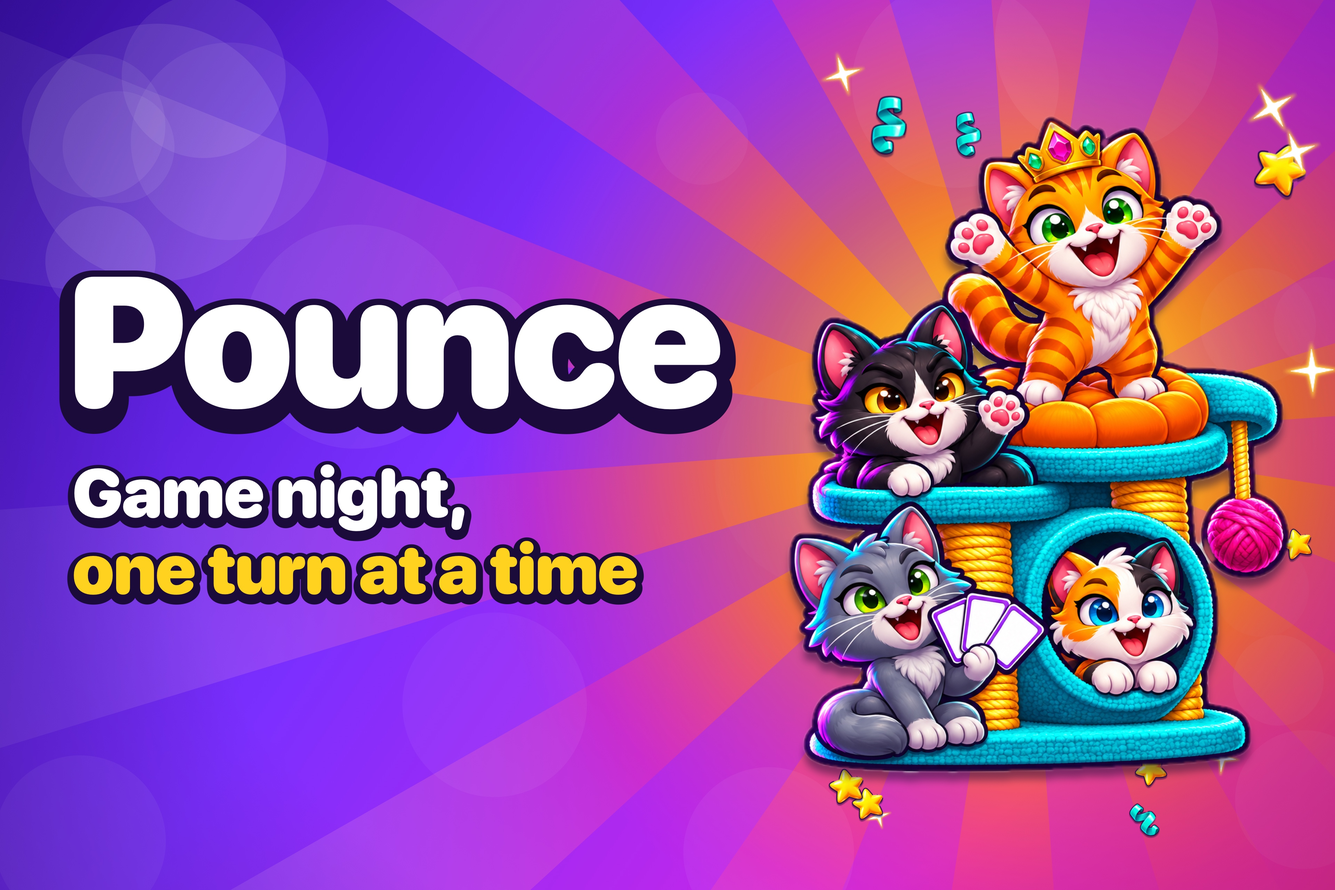
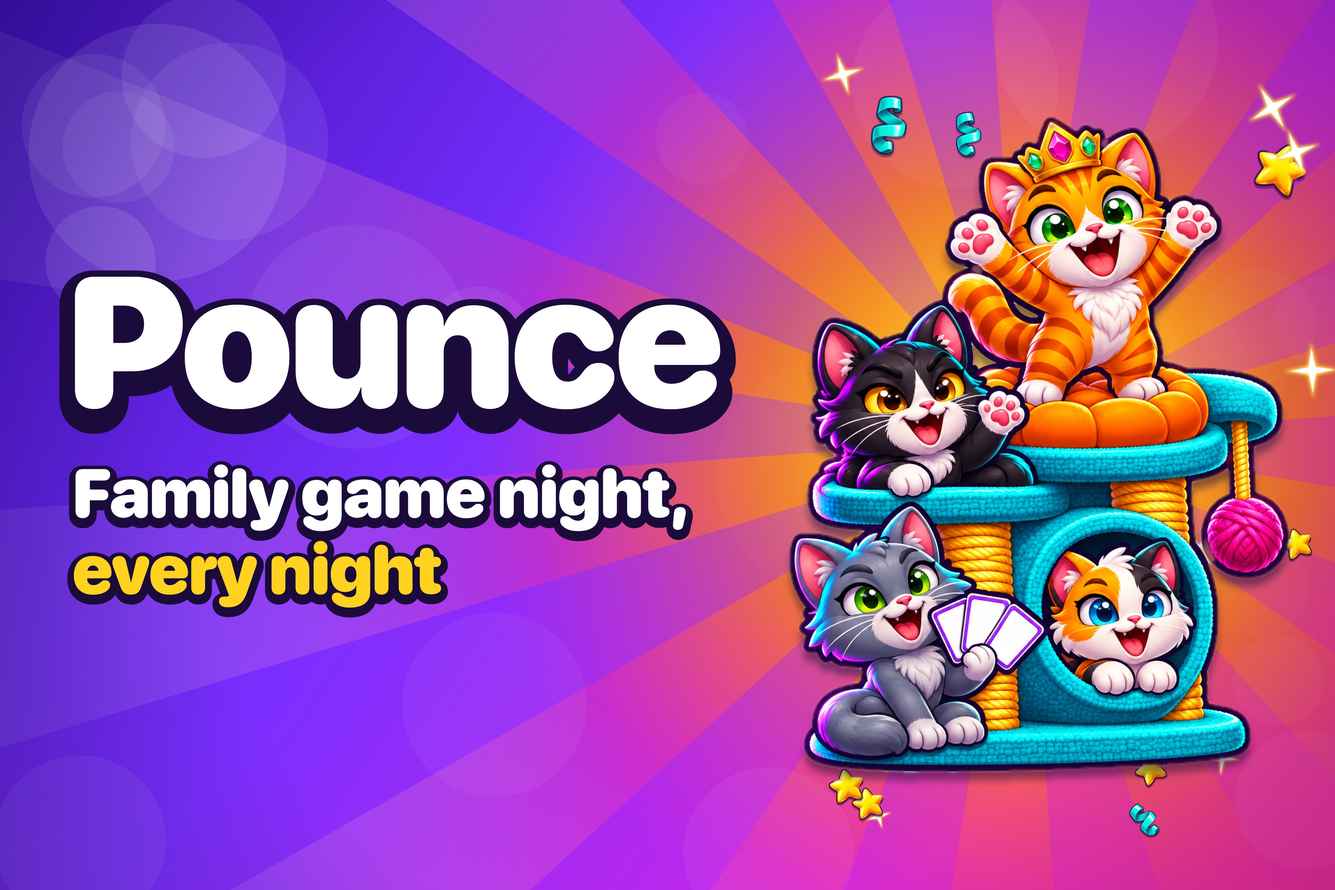
Creative assets: tagline is "Family game night, every night"

Changed region(s): [[0.0312, 0.5, 0.5312, 0.7188]]

diff --git a/apps/play-ios/AppStore/creative.swift b/apps/play-ios/AppStore/creative.swift
@@ -82,6 +82,9 @@ func place(_ img: CGImage, cx: CGFloat, cy: CGFloat, height: CGFloat, rotate deg
     ctx.restoreGState()
 }
 
+/// The tagline, one entry per line: the first white, the second yellow.
+let tagline = ("Family game night,", "every night")
+
 struct Group { let art: String; let cx, cy, h: CGFloat }
 struct Layout {
     let name: String
@@ -136,7 +139,7 @@ func compose(_ L: Layout, guides: Bool) -> CGImage {
     let ctx = CGContext(data: nil, width: Int(L.W), height: Int(L.H), bitsPerComponent: 8, bytesPerRow: 0, space: sRGB,
                         bitmapInfo: CGImageAlphaInfo.noneSkipLast.rawValue)!
     background(L, in: ctx)
-    let nameWidth = textWidth("Pounce", L.nameSize, kern: -0.025), tagWidth = textWidth("one turn at a time", L.tagSize)
+    let nameWidth = textWidth("Pounce", L.nameSize, kern: -0.025), tagWidth = max(textWidth(tagline.0, L.tagSize), textWidth(tagline.1, L.tagSize))
     let textLeft = L.centered ? L.textX - max(nameWidth, tagWidth) / 2 : L.textX
     let textBox = CGRect(x: textLeft, y: L.nameBaseline - L.tagSize * 3.1, width: max(nameWidth, tagWidth), height: L.tagSize * 3.1 + L.nameSize * 0.95)
         .insetBy(dx: -L.nameSize * 0.22, dy: -L.nameSize * 0.2)
@@ -158,8 +161,8 @@ func compose(_ L: Layout, guides: Bool) -> CGImage {
     // Name and tagline.
     let tagX = L.centered ? L.textX : L.textX + L.nameSize * 0.035
     drawText("Pounce", size: L.nameSize, fill: color("FFFFFF"), x: L.textX, baseline: L.nameBaseline, centered: L.centered, kern: -0.025, stroke: 0.17, in: ctx)
-    drawText("Game night,", size: L.tagSize, fill: color("FFFFFF"), x: tagX, baseline: L.nameBaseline - L.tagSize * 1.62, centered: L.centered, in: ctx)
-    drawText("one turn at a time", size: L.tagSize, fill: color(sun), x: tagX, baseline: L.nameBaseline - L.tagSize * 2.74, centered: L.centered, in: ctx)
+    drawText(tagline.0, size: L.tagSize, fill: color("FFFFFF"), x: tagX, baseline: L.nameBaseline - L.tagSize * 1.62, centered: L.centered, in: ctx)
+    drawText(tagline.1, size: L.tagSize, fill: color(sun), x: tagX, baseline: L.nameBaseline - L.tagSize * 2.74, centered: L.centered, in: ctx)
     if guides {
         ctx.setStrokeColor(CGColor(srgbRed: 0, green: 1, blue: 0, alpha: 0.9)); ctx.setLineWidth(L.H * 0.003)
         ctx.stroke(L.safe)
